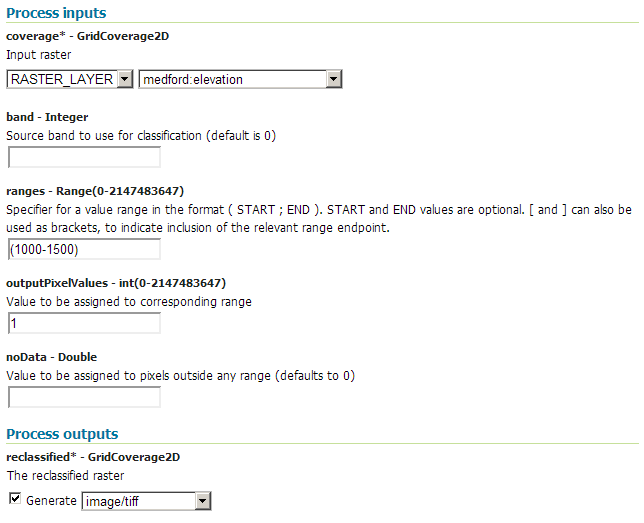
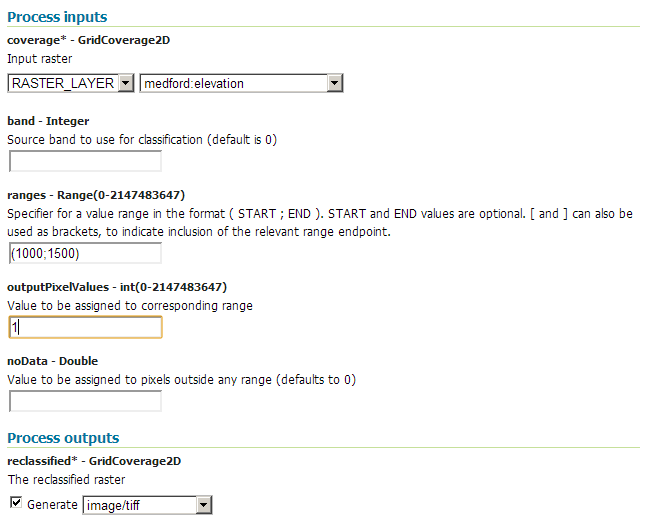
Fixed errors found in last revision

diff --git a/docs/usermanual/source/processing/processes/vector/heatmap.rst b/docs/usermanual/source/processing/processes/vector/heatmap.rst
@@ -10,7 +10,7 @@ Description
 
 The ``gs:Heatmap`` process takes a points feature collection and generates a raster layer representing the density of those features.
 
-Calculation is done by taking a given radius around each cell of the resulting grid coverage and adding up the values from features falling within that radius. The "influence" of a feature is determined by its distance to the cell. Specifically, a `Gaussian function <http://en.wikipedia.org/wiki/Gaussian_function>`_ is used to calculate the influence of a given feature occurrence at a given distance. The resulting coverage is normalized to have values within in the [0,1] range.
+Calculation is done by taking a given radius around each cell of the resulting grid coverage and adding up the values from features falling within that radius. The "influence" of a feature is determined by its distance to the cell. Specifically, a `Gaussian function <http://en.wikipedia.org/wiki/Gaussian_function>`_ is used to calculate the influence of a given feature occurrence at a given distance. 
 
 .. figure:: img/heatmap.png
 
@@ -22,7 +22,11 @@ Features can be weighted to indicate that the influence of a feature should be l
 
    *gs:Heatmap weighted*
 
-.. todo:: These figures look great, but they show values in the 1-3 range, which conflict with the idea of (0,1) normalization. Change to reflect this?
+Once the density coverage has been computed, it is normalized to have values within in the [0,1] range.
+
+.. figure:: img/heatmapnormalized.png
+
+   *gs:Heatmap final normalized output*
 
 Inputs and outputs
 ------------------
@@ -88,12 +92,7 @@ Usage notes
 * The values of the weighting attribute  (``weightAttr``) must resolve to a numeric value, otherwise the feature will have a weight value of 1.
 * The values of the weighting attribute (``weightAttr``) do not affect the range of values in the output grid coverage, as the range is always normalized to 1. The resulting coverage represents the probability distribution of the process represented by the input feature collection.
 * While this process is typically used with point features, all types of features are accepted. If features other than points are used, the centroid of the geometry is used as its representative point.
-
-.. todo::
-
-   Don't follow this, please revise. What ``ReferenceEnvelope``?
-
-   * The output layer is produced in the CS of the selected ``ReferenceEnvelope``. Input features can have a different CRS, and they will be reprojected if needed.
+* The output coverage is produced in the CRS of the envelope selected in the ``outputBBOX`` parameter. Input features can have a different CRS, and they will be reprojected if needed into that output CRS before computing the heatmap.
 
 
 Examples
@@ -169,10 +168,5 @@ The resulting heatmap has a slightly different output than before.
 
 Related processes
 -----------------
-
-.. todo::
-
-   ``ReferenceEnvelope`` is never explained, so please do so or alternately remove/rephrase this entry.
-
-   * Since this process requires an input of type ``ReferenceEnvelope`` to set the area covered by the output grid coverage, the ``gs:Bounds`` process can be used to extract the required extent from a given feature collection. Particularly, it is of interest to extract the envelope of the same layer used as input for the ``gs:Heatmap`` process so the extent of the output coverage is that of the input feature collection.
+* This process requires an input of type ``ReferenceEnvelope`` (the ``outputBBOX`` parameter). The ``ReferenceEnvelope`` class represents a bounding box expressed as its four coordinates (``minX, maxX, minY, maxY``) and a CRS. This parameter is used to set the area covered by the output grid coverage.  Instead of manually entering the coordinates and CRS of the parameter, the ``gs:Bounds`` process can be used to extract the required envelope from a given feature collection. Particularly, it is of interest to extract the envelope of the same layer used as input for the ``gs:Heatmap`` process so the envelope of the output coverage is that of the input feature collection.
 

diff --git a/docs/usermanual/source/processing/processes/vector/barnessurface.rst b/docs/usermanual/source/processing/processes/vector/barnessurface.rst
@@ -112,9 +112,8 @@ Usage notes
 * The input points feature collection can have a CRS different to the CRS of the ``outputBBox`` parameter. In that case, points are reprojected before interpolating.
 * A minimum number of points (indicated by the ``minObservations`` parameter) is needed to assign a value to a given cell. If the number of points in the defined neighborhood of the cell is lower than the minimum number of required points, the cell will get the ``NODATA`` value. This value can be set using the optional ``noDataValue`` parameter.
 * Using a lower value of the ``maxObservationDistance`` parameter implies a better accuracy, since fewer points are used to calculate the value at a given cell, but it may cause more cells to be populated with a ``NODATA`` value, if the number of observations within the maximum observation distance is lower than the required minimum (``minObservations``)
-* The Barnes interpolation is only suitable for interpolating continuous values, and not for categorical values where in intermediate value would not make sense.
+* The Barnes interpolation is only suitable for interpolating continuous values, and not for categorical values where in intermediate value would not make sense. for instance, a points layer containing data from soil samples such as soil pH, percentage of clay and soil type can be interpolated using the first two variables, but not the soil type, since values of that variable are arbitrary values used to represent a given category.
 
-.. todo:: Give a quick example of a data set where Barnes would not be suitable.
 
 Examples
 --------
@@ -122,31 +121,31 @@ Examples
 Creating a max temperature coverage from station data
 ~~~~~~~~~~~~~~~~~~~~~~~~~~~~~~~~~~~~~~~~~~~~~~~~~~~~~
 
-The ``world:globedata_temp`` layer contains several temperature measures for a set of stations. Using its ``MxTmp`` attribute, which contains maximum temperature values, this example will use the ``gs:BarnesSurface`` process to generate a coverage consisting of maximum temperatures for the entire Earth.
+The ``world:globedata_temp`` layer contains several temperature measures for a set of stations. Using its ``MxTmp`` attribute, which contains maximum temperature values, this example will use the ``gs:BarnesSurface`` process to generate a coverage consisting of maximum temperatures for an area covering the Iberian peninsula.
 
 Input parameters:
 
 * ``data``: ``world_globedata_temp``
 * ``valueAttr``: ``MxTmp``
 * ``dataLimit``: [Blank]
-* ``scale``: 15
+* ``scale``: 5
 * ``convergence``: [Blank]
 * ``passes``: 3
 * ``minObservations``: 2
 * ``maxObservationDistance``: 15
 * ``noDataValue``: [Blank]
-* ``pixelsPerCell``: 8
+* ``pixelsPerCell``: 2
 * ``queryBuffer``: [Blank]
 * ``outputBBOX``: 
 
-  * ``minX``: -180
-  * ``minY``: -90
-  * ``maxX``: 180
-  * ``maxY``: 90
+  * ``minX``: -9.5
+  * ``minY``: 36
+  * ``maxX``: 3.5
+  * ``maxY``: 43.5
   * ``CRS``: ``EPSG:4326`` 
 
-* ``outputWidth``: 720
-* ``outputHeight``: 360
+* ``outputWidth``: 780
+* ``outputHeight``: 450
 
 
 :download:`Download complete XML request <xml/barnesexample.xml>`.

diff --git a/docs/usermanual/source/processing/processes/raster/multiplycoverages.rst b/docs/usermanual/source/processing/processes/raster/multiplycoverages.rst
@@ -8,9 +8,8 @@ MultiplyCoverages
 Description
 -----------
 
-The ``gs:MultiplyCoverages`` process takes two input grid coverages with a single band and performs a cell-by-cell multiplication on them, generating a new grid coverage. Each cell in the output grid has the value resulting from the multiplication of the corresponding values for that same cell in the input grids.
+The ``gs:MultiplyCoverages`` process takes two input grid coverages with a single band and performs a cell-by-cell multiplication on them, generating a new grid coverage. Each cell in the output grid has the value resulting from the multiplication of the corresponding values for that same cell in the input grids. Coverages are assumed to have a single band. If multiband layers are entered, only the values in the first band will be used.
 
-.. todo:: What happens if you input a multiband raster?
 
 .. figure:: img/multiplycoverages.png
 
@@ -63,12 +62,7 @@ Usage notes
 * The output coverage will have the same bounding box and cell size as the input.
 * Both input grids must have only one band.
 * This process can be used to "mask" certain cells in a given raster by using a mask grid with zero or ``NODATA`` values in those cells to be masked out. This is useful as a data-preparation technique when it is desired to restrict data to a certain area.
-
-.. todo::
-
-   The original note here seems a bit abstruse. Is this a common use case? I'd like more details here, or convert this into an example.
-
-   "* Given two probability raster with values in the (0,1) range (such as those produced by the ``gs:Heatmap`` process), applying this process to them represents the equivalent of a fuzzy logic AND operation."
+* Given two grid coverages with values in the (0,1) range representing probability (such as those produced by the ``gs:Heatmap`` process)  or suitability for a given activity, applying this process to them represents the equivalent of a fuzzy logic AND operation. This technique is commonly used in multi-criteria evaluation, multiplying grid coverages that contain a suitability value considering a single factor, to obtain the compound suitability of the activity considering all factors together. For instance, given an activity that is affected by terrain slope and temperature, and two grid coverages representing the corresponding suitability for each of those factors, the result of multiplying them is the suitability for that activity, considering both slope and temperature. As both coverages have values ranging from 0 to 1, the resulting values will also be within that range. A value of 0 (completely unsuitable) in a cell in one of the input grid coverages will result in a 0 value for that cell in the resulting coverage.
 
 Examples
 --------
@@ -98,7 +92,6 @@ Input parameters for ``gs:MultiplyCoverages``
 
    *gs:MultiplyCoverages example parameters (part 1)*
 
-.. todo:: Range parameter is (1000-1500) in this graphic, but (1000;1500) in the above. Is the graphic wrong?
 
 .. figure:: img/multiplycoveragesUI2.png
 

diff --git a/docs/usermanual/source/processing/processes/raster/rangelookup.rst b/docs/usermanual/source/processing/processes/raster/rangelookup.rst
@@ -79,11 +79,7 @@ Usage notes
   * To create two ranges, one with all the values less than or equal to 1000, and another one with all values greater than 1000, the following string would be used: ``(;1000] (1000;)``
 
 
-.. todo::
-
-   Please explain what a "small" data type is.
-
-   "* The data type of the output is the smallest one that can hold the values used as new class values (those in the ``outputPixelvalues`` parameter)."
+* The data type of the output is the smallest one that can hold the values used as new class values (those in the ``outputPixelvalues`` parameter). For instance, the ``byte`` data type takes 8 bits per value and can hold values in the [-128, 127] range. If a reclassified value of 300 is entered in the ``outputPixelValues``, the resulting grid cannot use the ``byte`` data type. It should use the ``short`` data type, which uses 16bits and can hold that value. Notice that this is not related to the number of classes defined in the ``outputPixelValues`` parameter, but rather to the magnitude of the values.
 
 
 Examples
@@ -92,7 +88,7 @@ Examples
 Selecting suitable slope areas
 ~~~~~~~~~~~~~~~~~~~~~~~~~~~~~~
 
-This example finds all the areas in the ``medford:slope`` layer with a slope less than 15 degrees. The layer contains slope values in percentage, and the following example classifies them in two groups (suitable = 1, not suitable = 0) using the ``gs:RangeLookup`` process.
+Assuming that a certain process occurs only in areas with a slope lower than 15%, this example finds all the areas in the ``medford:slope`` layer that are suitable for that process. The layer contains slope values in percentage, and the following example classifies them in two groups (suitable = 1, not suitable = 0) using the ``gs:RangeLookup`` process.
 
 
 Input parameters:
@@ -102,8 +98,6 @@ Input parameters:
 * ``ranges``: (0;15)
 * ``noData``: [Blank]
 * ``outputPixelValues``: 1
-
-.. todo:: 15?
 
 :download:`Download complete XML request <xml/rangelookup.xml>`.
 
@@ -120,5 +114,3 @@ Related processes
 -----------------
 
 * The :ref:`gs:PolygonExtraction <processing.processes.raster.polygonextraction>` performs a similar reclassification to create an intermediate grid from which polygons can be extracted.
-
-.. todo:: I tried to rephrase the above, but not sure I did a good job of it.

diff --git a/docs/usermanual/source/processing/processes/raster/polygonextraction.rst b/docs/usermanual/source/processing/processes/raster/polygonextraction.rst
@@ -14,15 +14,11 @@ The ``gs:PolygonExtraction`` process takes an input raster and creates a polygon
 
    *gs:PolygonExtraction*
 
-.. todo:: This graphic is incorrect (look at the 2).
-
- The process can also perform a reclassification to group cells within a set of ranges so they are considered as belonging to the same class, which is useful when working with grid coverages such as a DEM (digital elevation model) or other raster with a continuous (non-discrete) variable, where neighbor pixels usually don't share the same values.
+The process can also perform a reclassification to group cells within a set of ranges so they are considered as belonging to the same class, which is useful when working with grid coverages such as a DEM (digital elevation model) or other raster with a continuous (non-discrete) variable, where neighbor pixels usually don't share the same values.
 
 .. figure:: img/polygonextraction2.png
 
    *gs:PolygonExtraction using predefined ranges*
-
-.. todo:: This graphic is also incorrect (see 6).
 
 Certain values can be left outside of the polygon extraction process, defining them as ``NODATA`` values. Cells with those values will be ignored and no polygon will be created from them.
 
@@ -88,10 +84,7 @@ Outputs
 Usage notes
 -----------
 
-* The ``nodata`` parameter is entered as a string of comma-separated values. For instance: ``"0, -1, 2.2"``.
-
-.. todo:: Are the quotes required?
-
+* The ``nodata`` parameter is entered as a string of comma-separated values. For instance: ``0, -1, 2.2``.
 * If the ``ranges`` parameter is used, the value of the ``nodata`` parameter is ignored. All values not belonging to any of the defined ranges will be considered no-data values.
 * If the ``ranges`` parameter is used, the ``value`` attribute in the output feature collection will contain the (zero-based) index of the range, not the original value of the cells in the grid coverage.
 * Non-adjacent regions with the same value will yield different features.

diff --git a/docs/usermanual/source/processing/processes/raster/areagrid.rst b/docs/usermanual/source/processing/processes/raster/areagrid.rst
@@ -60,7 +60,7 @@ Outputs
 Usage notes
 -----------
 
-* The input envelope is assumed to use WGS84. If the input envelope uses a different CRS, that information will be ignored, and only the coordinates will be used.
+* The input envelope is assumed to use WGS84. If the input envelope uses a different CRS, that information will be ignored, and only the coordinates will be used. Notice that, although the CRS is not used, the parameter is of type ``ReferencedEnvelope`` (that is, a bounding box with a CRS), so a CRS has to be provided anyway.
 * The output grid coverages will have a CRS of WGS84.
 * Area values are expressed in square meters.
 * Areas are calculated by reprojecting the original WGS84 coordinates of each cell boundary into an `Eckert IV <http://en.wikipedia.org/wiki/Eckert_IV_projection>`_ projection.
@@ -75,9 +75,7 @@ Examples
 Calculating areas for a grid coverage of 1-minute cells 
 ~~~~~~~~~~~~~~~~~~~~~~~~~~~~~~~~~~~~~~~~~~~~~~~~~~~~~~~~
 
-The following example creates an area grid that covers the territory of peninsular Spain, with a cell resolution of 1 minute (1/60 of a degree).
-
-.. todo:: How is the above calculated and turned into the following parameters?
+The following example creates an area grid that covers the territory of peninsular Spain, with a cell resolution of 1 minute (1/60 of a degree). To calculate the corresponding width and height values, the width (*maxX - minX*) and height (*maxY - minY*) of the bounding box in degrees are multiplied by 60.
 
 Input parameters:
 
@@ -102,6 +100,6 @@ Input parameters:
 
    *gs:AreaGrid example output*
 
-.. todo:: What is this image supposed to show? Where are the areas?
+Higher values (larger areas per pixel) in the image are represented in white, while lower values (smaller areas per pixel) are represented in black. The area of a pixel decreases as we move up North, as shown in the above image.
 
 

diff --git a/docs/usermanual/source/processing/processes/raster/addcoverages.rst b/docs/usermanual/source/processing/processes/raster/addcoverages.rst
@@ -8,9 +8,7 @@ AddCoverages
 Description
 -----------
 
-The ``gs:AddCoverages`` process takes two input grid coverages and performs a cell-by-cell addition on them, generating a new grid coverage. Each cell in the output grid has the value resulting from the addition of the corresponding values for that same cell in the input grids.
-
-.. todo:: What attribute? What happens if multiband?
+The ``gs:AddCoverages`` process takes two input grid coverages and performs a cell-by-cell addition on them, generating a new grid coverage. Each cell in the output grid has the value resulting from the addition of the corresponding values for that same cell in the input grids. Coverages are assumed to have a single band. If multiband layers are entered, only the values in the first band will be used.
 
 .. figure:: img/addcoverages.png
 
@@ -59,13 +57,6 @@ Usage notes
 
 * Both input coverages must have the same bounding box and the same cell size. That means they must have the same width and height (in cells), so that their cell locations match exactly.
 * The output coverage will have the same bounding box and cell size as the input.
-
-.. todo::
-
-   The original note here seems a bit abstruse. Is this a common use case? I'd like more details here, or convert this into an example.
-
-   "* Given two probability raster with values in the (0,1) range (such as those produced by the :ref:`gs:Heatmap <processing.processes.vector.heatmap>` process), applying this process to them represents the equivalent of a fuzzy logic OR operation."
-
 
 .. todo:: Example needed.
 

diff --git a/docs/usermanual/source/processing/processes/raster/contour.rst b/docs/usermanual/source/processing/processes/raster/contour.rst
@@ -118,7 +118,7 @@ Creating temperature contour lines
 
 The following example chains the ``gs:Contour`` process with the :ref:`gs:BarnesSurface <processing.processes.vector.barnessurface>` process to extract contour lines from a points feature collection. The ``gs:BarnesSurface`` process computes an intermediate raster layer that is then converted back to contour lines by the ``gs:Contour`` process.
 
-Contour lines are computed for an interval of 1 degrees, and the computation is limited to the area around Spain.
+Contour lines are computed for an interval of 2 degrees, and the computation is limited to the area around the Iberian Peninsula.
 
 .. note:: The detail of contour lines is directly affected by the interpolation process, since that defines the resolution of the intermediate coverage from which contour lines are calculated.
 
@@ -156,7 +156,7 @@ Input parameters for ``gs:Contour``.
 * ``smooth``: False
 * ``roi``: [Blank]
 
-.. todo:: File missing: ``:download:`Download complete chained XML request <xml/contourexample.xml>`.``
+:download:`Download complete chained XML request <xml/contour2.xml>`.
 
 .. figure:: img/contourexampleUI2.png
 
@@ -172,7 +172,6 @@ The output of the chained process looks like this:
 
    *gs:Contour example output*
 
-.. todo:: This image would be vastly improved by showing the original temperature readings, as well as a labels on the contour lines. Also fewer lines.
 
 Related processes
 -----------------

diff --git a/docs/usermanual/source/processing/processes/raster/rasteraspoints.rst b/docs/usermanual/source/processing/processes/raster/rasteraspoints.rst
@@ -54,7 +54,7 @@ Usage notes
 -----------
 
 * The output point feature collection has the same CRS as the input grid coverage.
-* If the input layer contains ``NODATA`` values, those will appear in the resulting layer with its original value. The process does not make any distinction, and will not label those values as no-data or null by using a particular value, but will enter the actual value of the grid coverage instead.
+* If the input layer contains ``NODATA`` values, those will appear in the resulting layer with their original values. The process does not make any distinction, and will not label those values as null, but will enter the actual value of the grid coverage instead. Since a missing value is indicated in an feature collection with a null value, those points that have been created from a NODATA cell using this process will not be interpreted by other processes as points without a value, but rather as points with a valid value.
 
 .. todo:: NODATA is NODATA is NODATA, right? What is this bullet point trying to say?
 

diff --git a/docs/usermanual/source/processing/processes/vector/bounds.rst b/docs/usermanual/source/processing/processes/vector/bounds.rst
@@ -83,6 +83,5 @@ The output is a ``ReferencedEnvelope`` object, representing the rectangle with t
 Related processes
 -----------------
 
-.. todo:: What is an input of type ``ReferenceEnvelope``?
 
-   "This process is of interest for all those processes requiring an input of type ``ReferenceEnvelope``. Chaining it with them can be used to automatically specify the envelope that covers the extent of a given feature collection."
+This process is of interest for all those processes requiring an input of type ``ReferenceEnvelope``. The ``ReferenceEnvelope`` class represents a bounding box expressed as its four coordinates (``minX, maxX, minY, maxY``) and a CRS. It is required by processes that require an analysis region to be defined.  Chaining this process with those others requiring a ``Reference Envelope`` object can be used to automatically specify the envelope that covers the extent of a given feature collection, instead of manually entering the correspponding coordinates and CRS.

diff --git a/docs/usermanual/source/processing/processes/raster/georectifycoverage.rst b/docs/usermanual/source/processing/processes/raster/georectifycoverage.rst
@@ -104,7 +104,7 @@ Usage notes
 * Coordinates of the clipping bounding box are assumed to be in the selected ``targetCRS``.
 * If ``width`` and ``height`` parameters are used, the resulting georectified coverage will be resampled to adapt to those values.
 * The ``width`` and ``height`` parameters must both be provided, otherwise either will be ignored.
+* the ``warpOrder`` parameter defines the order of the polinomial used for the warping transformation. Larger order might yield more accurate results, as they are able to represent the transformation with more detail. However, since there are more coefficients that have to be solved to define the transformation polinomial, a higher order requires more GCPs. For a polinomial of order 2, at least 6 GCPs are needed. For a polinomial of order 3, at least 10 GCPs are needed.
 
 .. todo:: Example needed.
 
-.. todo:: Please elaborate on ``warpOrder``. It's not clear to me what this parameter does.

diff --git a/docs/usermanual/source/processing/processes/raster/rasterzonalstats.rst b/docs/usermanual/source/processing/processes/raster/rasterzonalstats.rst
@@ -66,12 +66,7 @@ Outputs
 Usage notes
 -----------
 
-.. todo::
-
-   Please elaborate on this. Which layers are you talking about? Which one will be reprojected to the other?
-
-   "* Input layers can have different CRS's, and they will be reprojected if needed."
-
+* Input layers can have different CRS's. If the ``classification`` or ``zones`` layers do not have the same CRS as the ``data`` layer, they will be reprojected to the CRS of the ``data`` layer, and the statistic will be later calculated with all layer in the same CRS.
 * If used, the ``classification`` parameter must be a coverage with a single band consisting of integer values representing classes.
 * The names of the attributes where the statistics are stored are: ``count``, ``min``, ``max``, ``sum``, ``avg``, and ``stddev``.
 * Original attributes do not keep their exact original names, but are instead prefixed with the ``z_`` prefix.
